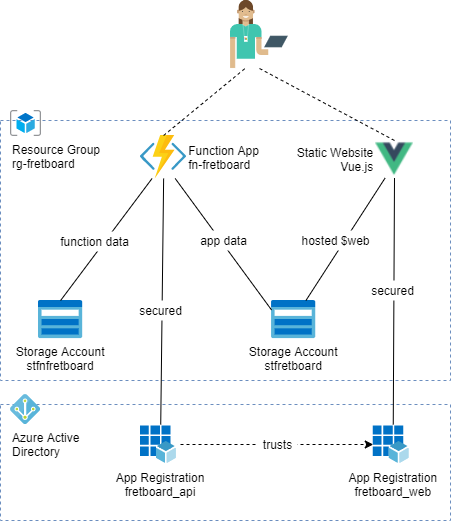
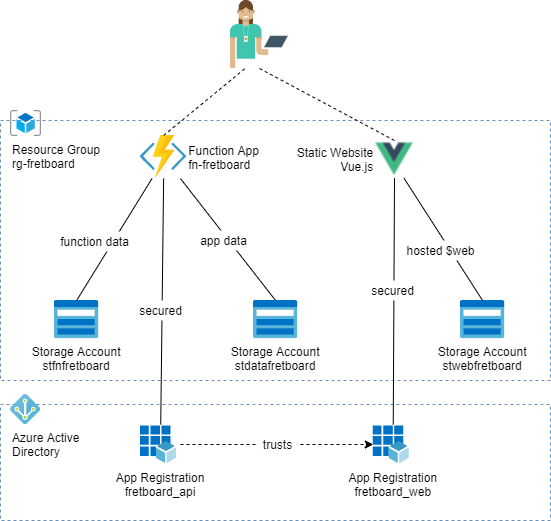
Saving to table storage. Added data rg

diff --git a/src/store/storeApi.ts b/src/store/storeApi.ts
@@ -80,9 +80,9 @@ export default class storeBackend extends VuexModule{
             requestConfig.headers =  { Authorization: `Bearer ${accessToken}` };
         }
         
-        axios.get(`${Config.functionAppUrl}api/test`, requestConfig)
+        axios.post(`${Config.functionAppUrl}api/answer`, answer, requestConfig)
         .then(function(response){
-            self.context.commit('SET_RESPONSE', response.data)
+            self.context.commit('SET_RESPONSE', response.status)
         })
         .catch(function(error){
             console.log(error);

diff --git a/src/config/production.js b/src/config/production.js
@@ -1,7 +1,7 @@
 //production
 (function(window) {
     window.__env = window.__env || {};
-    window.__env.spaUrl = "https://stfretboard.z33.web.core.windows.net/";
+    window.__env.spaUrl = "https://stwebfretboard.z33.web.core.windows.net/";
     window.__env.functionAppUrl = "https://fn-fretboard.azurewebsites.net/";
     window.__env.functionAppScope = "https://fn-fretboard.azurewebsites.net/user_impersonation";
     window.__env.authority = "https://login.microsoftonline.com/a061aca6-27f7-48ab-81c8-172f7bc9f4e9";

diff --git a/dotnetsrc/Fretboard/FretboardFunctions/AnswerPost.cs b/dotnetsrc/Fretboard/FretboardFunctions/AnswerPost.cs
@@ -8,41 +8,51 @@ using System.IO;
 using FretboardFunctions.TableEntities;
 using FretboardFunctions.Entities;
 using Microsoft.Azure.Cosmos.Table;
+using System.Security.Claims;
+using System.Linq;
+using System;
 
 namespace FretboardFunctions
 {
     public static class AnswerPost
     {
-        /*
-        {
-	        "UserId" : "userid",
-	        "Date" : "2020-08-08T15:39",
-	        "FretNo" : 0,
-	        "StringNo" : 0,
-	        "Attempts" : 1,
-	        "TimeTaken" : 1234
-        }
-        */
         [FunctionName("answer")]
         public static async Task<IActionResult> RunAsync(
-            [HttpTrigger(AuthorizationLevel.Function, "post", Route = null)] HttpRequest req,
-            [Table("answer")] CloudTable guessTable,
-            ILogger log)
+            [HttpTrigger(AuthorizationLevel.Anonymous, "post", Route = null)] HttpRequest req,
+            [Table("answer", Connection = "TableStorageConnection")] CloudTable guessTable,
+            ILogger log,
+            ClaimsPrincipal claimsPrincipal)
         {
-            //todo: save ip address & a unique session id (created client side on page load)
-            //if user is logged in then save agsitn the user's cn
-            
+#if DEBUG
+            claimsPrincipal = await OpenIdConnectLocal.GetClaimsPrincipal(req);
+            req.Headers.Add("X-Forwarded-For", "192.168.0.1:123456");
+#endif
+
             var body = await new StreamReader(req.Body).ReadToEndAsync();
             var answerDto = System.Text.Json.JsonSerializer.Deserialize<AnswerDto>(body);
 
+            string userId = null;
+            
+            if (claimsPrincipal.Identity.IsAuthenticated)
+            {
+                userId = claimsPrincipal.Claims.First(c => c.Type == ClaimTypes.NameIdentifier).Value;
+            }
+
+            var clientIp = (req.Headers["X-Forwarded-For"].FirstOrDefault() ?? "").Split(':').FirstOrDefault();
+
+            var now = DateTime.UtcNow;
+
             var answer = new Answer
             {
-                PartitionKey = answerDto.UserId,
-                RowKey = answerDto.Date,
-                FretNo = answerDto.FretNo,
-                StringNo = answerDto.StringNo,
-                Attempts = answerDto.Attempts,
-                TimeTaken = answerDto.TimeTaken
+                PartitionKey = userId ?? now.ToString("yyyy-MM-dd"),
+                RowKey = now.ToString("o"),
+                ClientIp = clientIp,
+                FretNo = answerDto.fretNo,
+                StringNo = answerDto.stringNo,
+                Note = answerDto.note,
+                Attempts = answerDto.attempts,
+                TimeTaken = answerDto.timeTaken,
+                InsertedOn = now
             };
 
             try

diff --git a/dotnetsrc/Fretboard/FretboardFunctions/Dtos/AnswerDto.cs b/dotnetsrc/Fretboard/FretboardFunctions/Dtos/AnswerDto.cs
@@ -4,11 +4,10 @@ namespace FretboardFunctions.Entities
 {
     public class AnswerDto
     {
-        public string UserId { get; set; }
-        public string Date { get; set; }
-        public int FretNo { get; set; }
-        public int StringNo { get; set; }
-        public int Attempts { get; set; }
-        public int TimeTaken { get; set; }
+        public int fretNo { get; set; }
+        public int stringNo { get; set; }
+        public string note { get; set; }
+        public int attempts { get; set; }
+        public int timeTaken { get; set; }
     }
 }

diff --git a/dotnetsrc/Fretboard/FretboardFunctions/TableEntities/Answer.cs b/dotnetsrc/Fretboard/FretboardFunctions/TableEntities/Answer.cs
@@ -1,4 +1,5 @@
 using Microsoft.Azure.Cosmos.Table;
+using System;
 
 namespace FretboardFunctions.TableEntities
 {
@@ -6,7 +7,11 @@ namespace FretboardFunctions.TableEntities
     {
         public int FretNo { get; set; }
         public int StringNo { get; set; }
+        public string Note { get; set; }
         public int Attempts { get; set; }
         public int TimeTaken { get; set; }
+        public string UserId { get; set; }
+        public string ClientIp { get; set; }
+        public DateTime InsertedOn { get; set; }
     }
 }

diff --git a/docs/deployment.md b/docs/deployment.md
@@ -8,7 +8,7 @@ From the Azure Portal go to `Azure Active Directory` > `App registrations` > `Ne
 
 - name: `fretboard_web` 
 - Authentication > Add a platform > SPA
-- Redirect URI: https://stfretboard.z33.web.core.windows.net/
+- Redirect URI: https://stwebfretboard.z33.web.core.windows.net/
 - Implict grant: ID tokens, Access Tokens
 
 - name: `fretboard_api`
@@ -24,13 +24,16 @@ The below assumes you have installed:
 - Azure Powershell Module
 - AzCopy
 
-Update (deploy.ps1)[/deploy.ps1] and set the variables `$name`, `$location`, `$aadApiClientId`  
-From PowerShell navigate to the root of the repo and execute `./deploy.ps1`
+Update [deploy.ps1](/deploy.ps1) and set the variables `$name`, `$location`, `$aadApiClientId`  
+From PowerShell navigate to the root of the repo and execute  
+```
+./deploy.ps1
+```
 
 This script can be used to create/update the deployment. It does the following.
 
 - Creates the resource group
-- Deploys the (azuredeployjson)[/azuredeploy.json] ARM Template
+- Deploys the [azuredeployjson](/azuredeploy.json) ARM Template
 - Builds, publishes and zip deploys the .NET Function app
 - Builds and `azcopy` the Vue SPA front end
 
@@ -58,14 +61,15 @@ Create a Function App
 - Allowed Token Audience = AAD `fretboard_api`'s Application ID URI (Should be the same url the function app)
 - OK then Save!
 - CORS > Add the URL of the SPA application
+- To App Settings add `TableStorageConnection` with the value of a connection strign to the stdatafretboard storage account.
 
 ## Deploying static website to blob storage
-Install azcopy and add to Vironemtn Variables PATH. Navigate to the root folder.
+Install azcopy and add location to Environment Variables `PATH`. Navigate to the root folder.
 - Storage account > Access control: Give the user 'Storage Blob Data Contributor' role
 Once you've logged in you may need to wait a few minutes for the above permission change to take effect before copying the files
 ```
 azcopy login --tenant-id=a061aca6-27f7-48ab-81c8-172f7bc9f4e9
-azcopy copy 'dist/*' 'https://stfretboard.blob.core.windows.net/$web' --recursive
+azcopy copy 'dist/*' 'https://stwebfretboard.blob.core.windows.net/$web' --recursive
 ```
 
 ## Deploying Function App

diff --git a/README.md b/README.md
@@ -13,8 +13,9 @@ Plan - Consumption Plan
 .NET Core 3.1 (Windows)  
 
 ### Storage Accounts
-1. Supporting storage account for the function app - `stfnfretboard` (V1 - cheaper for behind the scences function workings)  
-2. Storage account to host static content and application data - `stfretboard` (V2)  
+1. Storage account to support the function app - `stfnfretboard` (V1 - cheaper for behind the scences function workings)  
+2. Storage account to host static content - `stwebfretboard` (V2)  
+3. Storage account for application data and queues - `stdatafretboard` (V2)
 
 ### Active Directory
 App Registrations  
